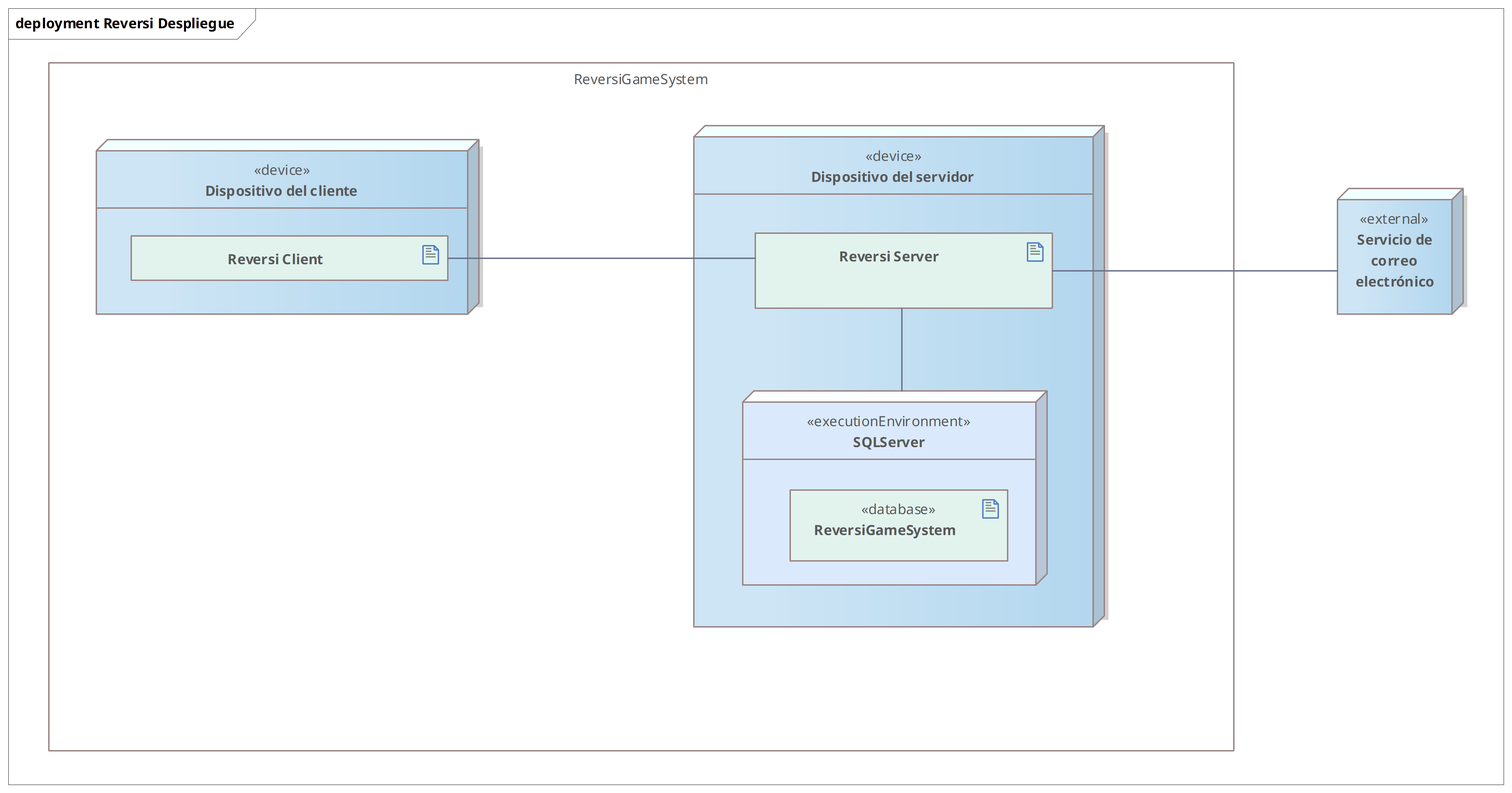
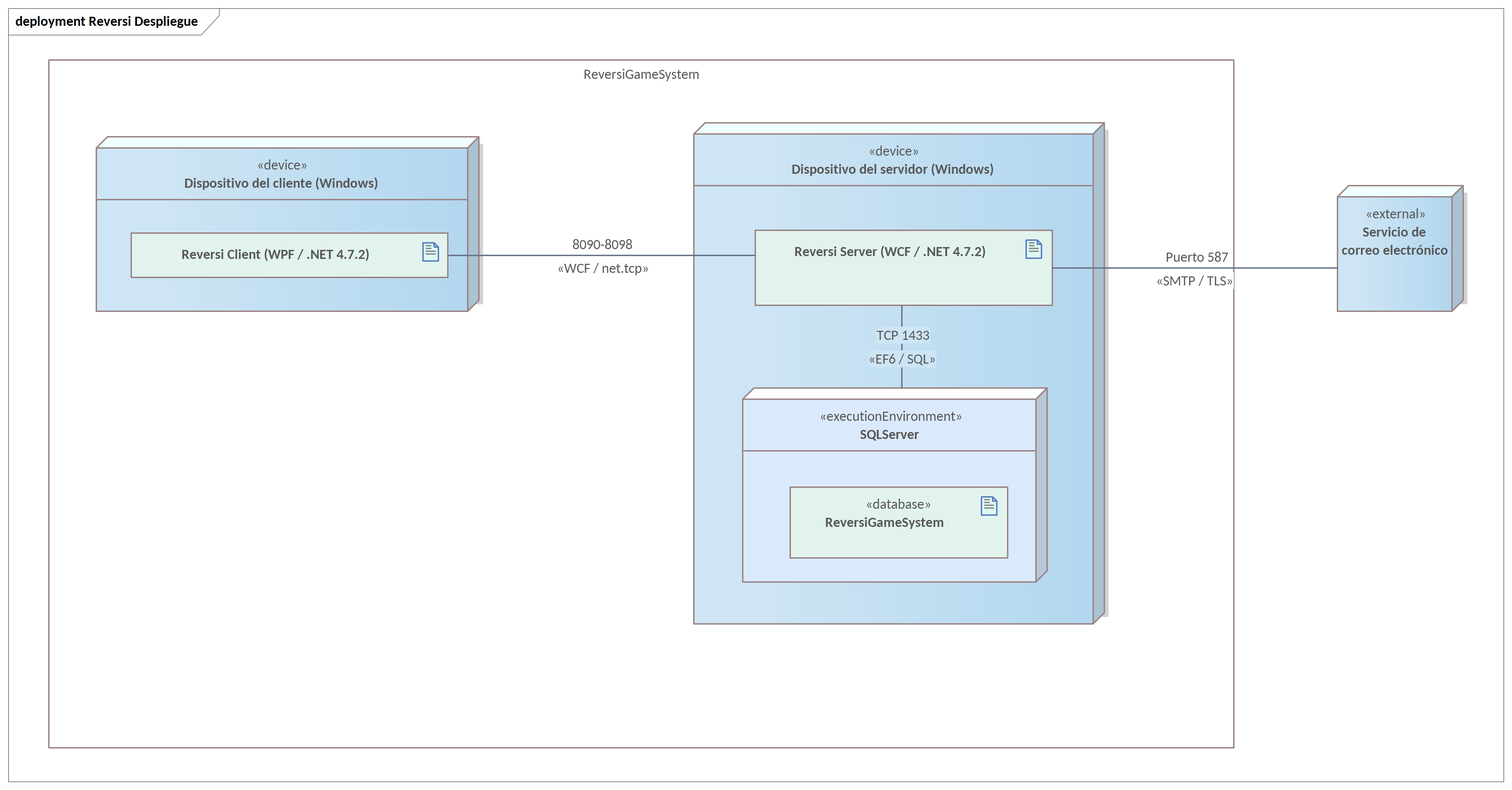
docs(architecture): complete SAD v0.3 third milestone and diagrams

diff --git a/docs/Design Project/Documento-Entrega.md b/docs/Design Project/Documento-Entrega.md
@@ -9,9 +9,9 @@ Diseño de Software
 | Proyecto             | Reversi                         |
 | -------------------- | ------------------------------- |
 | Equipo e integrantes | César Daniel Ortega Castillejos<br>Pedro Enrique Sánchez Rodríguez |
-| Versión del documento | v0.2 |
-| Entrega | Segundo avance |
-| Fecha | 15/11/2026 |
+| Versión del documento | v0.3 |
+| Entrega | Tercer corte |
+| Fecha | 22/11/2026 |
 
 # Documento de Arquitectura de Software (SAD)
 
@@ -27,10 +27,11 @@ Diseño de Software
 | Audiencia | Autoridad docente para evaluar la solidez y trazabilidad del diseño; equipo de desarrollo para guiar la construcción e integración de módulos; y testers (QA) para derivar las pruebas de verificación de los escenarios de calidad. |
 | Alcance | Cubre el diseño integral del cliente de escritorio (WPF), el servidor autoritativo de partidas y sesiones (WCF) y la persistencia relacional (SQL Server). Quedan fuera del alcance el servicio de transporte de correo electrónico (dependencia externa), clientes web/móviles y el modo de juego local fuera de línea. |
 
-| **Versión** | **Fecha** | **Cambios principales** |
-| --- | --- | --- |
-| v0.1 | 10/10/2026 | Primera entrega parcial: definición de frontera, interesados, drivers de calidad, árbol de utilidad, ASR prioritarios, decisiones ADR (001 a 006), catálogo de módulos C-01 a C-14, vistas V-01/V-02 y riesgos iniciales. |
-| v0.2 | 15/11/2026 | Segundo avance. Se conciliaron los escenarios de calidad y los ASR. Se actualizaron los ADR y el catálogo de elementos a partir de las iteraciones ADD. Se documentaron las reglas de dependencia y se justificó la selección de vistas 4+1. |
+| **Versión** | **Fecha**  | **Cambios principales**                                                                                                                                                                                                                      |
+| ----------- | ---------- | -------------------------------------------------------------------------------------------------------------------------------------------------------------------------------------------------------------------------------------------- |
+| v0.1        | 10/10/2026 | Primera entrega parcial: definición de frontera, interesados, drivers de calidad, árbol de utilidad, ASR prioritarios, decisiones ADR (001 a 006), catálogo de módulos C-01 a C-14, vistas V-01/V-02 y riesgos iniciales.                    |
+| v0.2        | 15/11/2026 | Segundo avance. Se conciliaron los escenarios de calidad y los ASR. Se actualizaron los ADR y el catálogo de elementos a partir de las iteraciones ADD. Se documentaron las reglas de dependencia y se justificó la selección de vistas 4+1. |
+| v0.3        | 22/11/2026 | Tercer corte. Se incorpora IT11 de preferencias de idioma, se documentan los contratos de los nueve drivers y la arquitectura en ejecución y se incorporan las fichas lógica y de procesos.                                                  |
 
 ### 1.2 Resumen de la arquitectura
 
@@ -56,13 +57,13 @@ La solución usa un servidor autoritativo y separa los niveles lógicos de clien
 
 ### 1.4 Uso de IA generativa
 
-| Qué pidieron                                                                                                                                                                                                                                         | Qué aceptaron y qué rechazaron                                                                                                                                                                                                                                                                                                                                                                 | Cómo lo verificaron                                                                                                                                                           |
-| ---------------------------------------------------------------------------------------------------------------------------------------------------------------------------------------------------------------------------------------------------- | ---------------------------------------------------------------------------------------------------------------------------------------------------------------------------------------------------------------------------------------------------------------------------------------------------------------------------------------------------------------------------------------------- | ----------------------------------------------------------------------------------------------------------------------------------------------------------------------------- |
-| **Mejora de redacción apegada al dominio:** Redacción y pulido técnico de descripciones arquitectónicas, fichas de decisión (ADR), justificaciones de ASR y escenarios de calidad con terminología formal del dominio de Reversi y tácticas del SEI. | **Aceptado:** La terminología formal, la redacción neutral de caja negra en las respuestas de escenarios (eliminando fugas prematuras de solución) y los trade-offs de diseño.<br><br>**Rechazado:** Propuestas que sugerían tecnologías o mecanismos fuera del alcance y stack estipulado (tales como colas RabbitMQ o persistencia síncrona en cada turno).                                  | Cotejo manual contra el glosario del proyecto (1.3), las restricciones técnicas formales (RES-TEC) y los términos de calidad del SEI / ISO 25010.                             |
-| **Verificación de llenado correcto según reglas de la plantilla:** Auditoría de la estructura de las secciones de la primera entrega frente a las instrucciones de la plantilla SAD v5.0 y la lista de comprobación proporcionada.                   | **Aceptado:** El ajuste en la cantidad de elementos (10 escenarios y 7 ASR), la inclusión de las filas obligatorias de seguridad (activo, actor, límite) y el formato tabular de las fichas.<br><br>**Rechazado:** Formatos de redacción libre o listas desestructuradas que no respetaban las tablas canónicas de la plantilla.                                               | Comparación punto por punto contra la lista de comprobación proporcionada de la plantilla y la rúbrica de evaluación docente.                                                 |
-| **Verificación de identificadores permitidos en el documento:** Validación estricta del cumplimiento de la regla de los siete identificadores canónicos y trazabilidad entre secciones.                                                              | **Aceptado:** La corrección y eliminación de sub-abreviaciones inventadas (reemplazando `QAS-SEG` por la nomenclatura canónica `QAS-Seguridad`), y la unificación de los catálogos de componentes (`C-01` a `C-14`) y riesgos (`R-01` a `R-03`).<br><br>**Rechazado:** Cualquier prefijo intermedio que violara la regla de identificadores de la plantilla.                                   | Rastreo y búsqueda en el texto para comprobar que solo existan los prefijos permitidos (QAS, ASR, ADR, C, V, EV, R) y que las referencias cruzadas entre secciones coincidan. |
-| **Análisis y síntesis de avances de iteraciones:** Extracción y discriminación de la información técnica generada en las notas de las Iteraciones 1 a 5 de ADD para trasladar las decisiones esenciales a la entrega formal.                         | **Aceptado:** Sugerencias para la selección de decisiones arquitectónicas estructurales y la representación de la evolución histórica (marcando ADR-001 y ADR-002 como sustituidos por ADR-004 y ADR-005 tras la Iteración 5).<br><br>**Rechazado:** Trasladar decisiones de nivel de código, dependencias de bajo nivel o características descartadas (como el modo de juego fuera de línea). | Contraste contra las bitácoras de diseño de las Iteraciones 1 a 5 y los acuerdos de alcance establecidos con la autoridad organizacional.                                     |
-| Consolidación del segundo avance con las iteraciones ADD y revisión contra el Word original. | Se conservaron las decisiones de diseño sustentadas por las iteraciones, el catálogo de módulos y las reglas de dependencia. Las estimaciones de red se registraron como análisis. | Se contrastaron las secciones y las tablas con la plantilla. Se cotejaron los ADR, los elementos y las vistas con los documentos de diseño. |
+| Qué pidieron                                                                                                                                                                                                                                                                            | Qué aceptaron y qué rechazaron                                                                                                                                                                                                                                                                                                                                                                 | Cómo lo verificaron                                                                                                                                                           |
+| --------------------------------------------------------------------------------------------------------------------------------------------------------------------------------------------------------------------------------------------------------------------------------------- | ---------------------------------------------------------------------------------------------------------------------------------------------------------------------------------------------------------------------------------------------------------------------------------------------------------------------------------------------------------------------------------------------- | ----------------------------------------------------------------------------------------------------------------------------------------------------------------------------- |
+| **Mejora de redacción apegada al dominio:** Redacción y pulido técnico de descripciones arquitectónicas, fichas de decisión (ADR), justificaciones de ASR y escenarios de calidad con terminología formal del dominio de Reversi y tácticas del SEI.                                    | **Aceptado:** La terminología formal, la redacción neutral de caja negra en las respuestas de escenarios (eliminando fugas prematuras de solución) y los trade-offs de diseño.<br><br>**Rechazado:** Propuestas que sugerían tecnologías o mecanismos fuera del alcance y stack estipulado (tales como colas RabbitMQ o persistencia síncrona en cada turno).                                  | Cotejo manual contra el glosario del proyecto (1.3), las restricciones técnicas formales (RES-TEC) y los términos de calidad del SEI / ISO 25010.                             |
+| **Verificación de llenado correcto según reglas de la plantilla:** Auditoría de la estructura de las secciones de la primera entrega frente a las instrucciones de la plantilla SAD v5.0 y la lista de comprobación proporcionada.                                                      | **Aceptado:** El ajuste en la cantidad de elementos (10 escenarios y 7 ASR), la inclusión de las filas obligatorias de seguridad (activo, actor, límite) y el formato tabular de las fichas.<br><br>**Rechazado:** Formatos de redacción libre o listas desestructuradas que no respetaban las tablas canónicas de la plantilla.                                                               | Comparación punto por punto contra la lista de comprobación proporcionada de la plantilla y la rúbrica de evaluación docente.                                                 |
+| **Verificación de identificadores permitidos en el documento:** Validación estricta del cumplimiento de la regla de los siete identificadores canónicos y trazabilidad entre secciones.                                                                                                 | **Aceptado:** La corrección y eliminación de sub-abreviaciones inventadas (reemplazando `QAS-SEG` por la nomenclatura canónica `QAS-Seguridad`), y la unificación de los catálogos de componentes (`C-01` a `C-14`) y riesgos (`R-01` a `R-03`).<br><br>**Rechazado:** Cualquier prefijo intermedio que violara la regla de identificadores de la plantilla.                                   | Rastreo y búsqueda en el texto para comprobar que solo existan los prefijos permitidos (QAS, ASR, ADR, C, V, EV, R) y que las referencias cruzadas entre secciones coincidan. |
+| **Análisis y síntesis de avances de iteraciones:** Extracción y discriminación de la información técnica generada en las notas de las Iteraciones 1 a 5 de ADD para trasladar las decisiones esenciales a la entrega formal.                                                            | **Aceptado:** Sugerencias para la selección de decisiones arquitectónicas estructurales y la representación de la evolución histórica (marcando ADR-001 y ADR-002 como sustituidos por ADR-004 y ADR-005 tras la Iteración 5).<br><br>**Rechazado:** Trasladar decisiones de nivel de código, dependencias de bajo nivel o características descartadas (como el modo de juego fuera de línea). | Contraste contra las bitácoras de diseño de las Iteraciones 1 a 5 y los acuerdos de alcance establecidos con la autoridad organizacional.                                     |
+| Consolidación del segundo avance con las iteraciones ADD y revisión contra el Word original.                                                                                                                                                                                            | Se conservaron las decisiones de diseño sustentadas por las iteraciones, el catálogo de módulos y las reglas de dependencia. Las estimaciones de red se registraron como análisis.                                                                                                                                                                                                             | Se contrastaron las secciones y las tablas con la plantilla. Se cotejaron los ADR, los elementos y las vistas con los documentos de diseño.                                   |
 
 ---
 
@@ -272,6 +273,8 @@ QAS-Desplegabilidad-1 se conserva como escenario planeado para la Iteración 4. 
 | **ADR-012** | Opción de jugar contra el sistema desde la sala de espera | Aceptado | Sin ASR prioritario. Atiende QAS-Usabilidad-2. |
 | **ADR-013** | Propagación del estado completo de la partida | Aceptado | ASR-03 |
 | **ADR-014** | Tiempo límite para el proveedor de correo | Aceptado | ASR-04 |
+| **ADR-015** | Almacenamiento de preferencias de idioma en el servidor | Aceptado | ASR-05 (CU-09) |
+| **ADR-015** | Almacenamiento de preferencias de idioma en el servidor | Aceptado | ASR-05 y CU-09 |
 
 ### 3.2 Fichas de decisión
 
@@ -429,6 +432,17 @@ QAS-Desplegabilidad-1 se conserva como escenario planeado para la Iteración 4. 
 | **Riesgos** | Ninguno residual registrado (dependencia externa acotada a 5 s) |
 | **Elementos afectados** | C-08, C-11, DEP-01 |
 
+| ADR-015 | Almacenamiento de preferencias de idioma en el servidor |
+| --- | --- |
+| **Estado** | Aceptado |
+| **Contexto** | Para soportar `CU-09` (Modificar idioma de interfaz) conservando la preferencia de cada cuenta entre sesiones y dispositivos sin mezclarla con los datos públicos del jugador ni acoplar los recursos visuales con la comunicación y almacenamiento (`STK-02`, `ASR-05`) en IT11. |
+| **Alternativas** | **A (Preferencia de cuenta almacenada en el servidor con módulo dedicado):** Incorporar un flujo remoto propio (`C-42` a `C-45`) que guarda el idioma de la cuenta en el servidor antes de aplicarlo en pantalla, mientras los invitados aplican el idioma solo durante su sesión. *A favor:* Conserva el idioma de la cuenta entre sesiones y separa la configuración de uso respecto al perfil público. *En contra:* Guardar la preferencia de cuenta depende de disponibilidad remota y un fallo posterior de carga local de recursos puede dejar temporalmente distinto el idioma guardado del mostrado.<br><br>**B (Almacenar la preferencia únicamente en el equipo cliente):** Guardar el idioma en archivos locales sin contrato remoto. *A favor:* Cambia de idioma sin consultar al servidor. *En contra:* La preferencia queda ligada a un solo equipo y no sigue a la cuenta.<br><br>**C (Incluir la preferencia dentro del flujo de modificación de perfil):** Reutilizar el servicio de perfil existente para guardar el idioma. *A favor:* Evita agregar nuevas fronteras para preferencias. *En contra:* Mezcla la configuración de interfaz del usuario con los datos públicos de su perfil. |
+| **Criterios** | Persistencia asociada a la cuenta, separación de responsabilidades (`STK-02`) y uso de contratos remotos (`ASR-05`). |
+| **Decisión** | Se elige la Alternativa A: se incorporan `C-42` a `C-45` para consultar y guardar el idioma de la cuenta en el servidor antes de aplicarlo visualmente en `C-18`. |
+| **Consecuencias** | La preferencia de idioma persiste asociada a la cuenta con fronteras limpias en cliente, servicio, negocio y datos. Se acepta la dependencia remota al guardar y el desacople temporal si falla la carga local de recursos tras confirmar el guardado. |
+| **Riesgos** | Ninguno identificado |
+| **Elementos afectados** | C-01, C-18, C-42, C-43, C-44, C-45 |
+
 ---
 
 ## 4. Estructura
@@ -454,7 +468,7 @@ QAS-Desplegabilidad-1 se conserva como escenario planeado para la Iteración 4. 
 | C-15 | Raíz de composición del servidor (Servidor · Arranque) | Ensambla el servidor y conecta contratos con implementaciones. | C-04, módulos de negocio y C-11 a C-13. |
 | C-16 | Acceso y registro (submódulo de C-01) | Presenta el inicio de sesión, el acceso como invitado y la creación de cuentas. | Cliente de sesiones, Cliente de cuentas, políticas de entrada y apoyo de presentación. |
 | C-17 | Menú principal (submódulo de C-01) | Muestra la clasificación y la lista de amigos. Permite acceder a partidas y cerrar sesión. | Cliente de clasificación, Cliente de amistades, Cliente de sesiones y apoyo de presentación. |
-| C-18 | Perfil y configuración (submódulo de C-01) | Presenta el perfil y las opciones de interfaz. Desde el perfil también se pueden enviar solicitudes de amistad. | Cliente de perfil, Cliente de cuentas y apoyo de presentación. |
+| C-18 | Perfil y configuración (submódulo de C-01) | Presenta el perfil y las opciones de interfaz. Desde el perfil también se pueden enviar solicitudes de amistad. | Cliente de perfil, Cliente de cuentas, Cliente de preferencias y apoyo de presentación. |
 | C-19 | Amistades (submódulo de C-01) | Presenta la búsqueda de jugadores y las solicitudes de amistad. | Cliente de amistades y apoyo de presentación. |
 | C-20 | Sala de partida (submódulo de C-01) | Presenta la creación, la búsqueda y la espera de partidas. | Cliente de partidas, comprobaciones de juego y apoyo de presentación. |
 | C-21 | Partida en curso (submódulo de C-01) | Muestra el tablero, recibe las acciones de juego y presenta el chat de la partida. | Cliente de partidas, comprobaciones de juego y apoyo de presentación. |
@@ -478,18 +492,26 @@ QAS-Desplegabilidad-1 se conserva como escenario planeado para la Iteración 4. 
 | C-39 | Módulo de datos de chat (submódulo de C-12) | Implementa el contrato de persistencia de chat y traduce hacia la base de datos relacional. | Contrato de persistencia de chat (implementa), Base de datos relacional |
 | C-40 | Módulo de datos de amistades (submódulo de C-12) | Implementa el contrato de persistencia de amistades y traduce hacia la base de datos relacional. | Contrato de persistencia de amistades (implementa), Base de datos relacional |
 | C-41 | Módulo de datos de jugadores (submódulo de C-12) | Implementa el contrato de persistencia de jugadores y traduce hacia la base de datos relacional. | Contrato de persistencia de jugadores (implementa), Base de datos relacional |
+| C-42 | Cliente de preferencias (submódulo de C-03) | Consulta y actualiza el idioma de la cuenta. | Contrato remoto de preferencias de jugador. |
+| C-43 | Servicio de preferencias de jugador (submódulo de C-04) | Expone la consulta y actualización de preferencias. | C-44 y C-13. |
+| C-44 | Módulo de preferencias (Negocio del servidor) | Comprueba la sesión y el idioma y coordina su almacenamiento. | C-08 (sesiones) y Contrato de persistencia de preferencias. |
+| C-45 | Módulo de datos de preferencias (submódulo de C-12) | Guarda y consulta preferencias de la cuenta. | Contrato de persistencia de preferencias y C-14. |
 
 Los submódulos heredan la capa del módulo que los agrupa. Los contratos de salida se definen en negocio y los contratos remotos se exponen en servicios. La ficha V-02 indica cómo leer los nombres de la figura junto con los identificadores del catálogo.
 
 ### 4.2 Interfaces críticas
 
-*Entrega final*
-
-Sólo las interfaces cuyo incumplimiento produce un riesgo real: dinero, estado compartido, datos personales…
-
 | Interfaz | Provista por / usada por | Operaciones | Contrato: condiciones de entrada, resultado garantizado y errores relevantes |
 | --- | --- | --- | --- |
-| [Nombre] | [C-_ / C-_] | […] | […] |
+| Cuentas (CU-01) | C-30 / C-25 | Solicitar código y completar registro. | Requiere nombre y correo disponibles, contraseña válida y código vigente del registro. El éxito crea una cuenta activa con correo verificado e invalida el código. Datos incompletos, formato inválido, duplicados y código incorrecto o vencido rechazan el registro. Fallos de correo o almacenamiento se informan sin dejar una cuenta utilizable parcialmente creada. Cancelar antes de completar conserva el registro sin finalizar. |
+| Preferencias de idioma (CU-09) | C-43 / C-42 | Consultar preferencias y guardar idioma. | Requiere sesión válida de cuenta e idioma soportado. El éxito confirma el guardado antes de aplicar los recursos visuales. Cancelar o elegir el idioma activo conserva la configuración. Un fallo de guardado conserva el idioma mostrado. Si el guardado ya se confirmó y falla la carga local, se conserva el idioma visual anterior y se informa el fallo de recursos. |
+| Sala (CU-11, CU-15) | C-35 / C-29 | Crear, unirse, iniciar contra el sistema y cancelar sala. | Requiere sesión válida y configuración admitida. Crear produce una sala con creador y código. Unirse por selección o por ingreso de código converge en comprobar en el servidor que sigue esperando y tiene cupo. Código inválido, sala ocupada o iniciada e intento de unirse a la propia sala rechazan la solicitud. El éxito asigna el segundo participante e inicia la partida. Cancelar la espera invalida el acceso por código. Fallos de almacenamiento evitan una modificación parcial. |
+| Partida en curso (CU-16) | C-36 / C-29 | Realizar jugada y consultar estado confirmado. | Requiere sesión válida, participación, turno, partida activa, posición legal y versión esperada vigente. El éxito establece un nuevo estado y versión en el servidor y devuelve el estado confirmado. Una solicitud inválida conserva el estado. Pasar turno y finalizar se resuelven según los movimientos disponibles. El servidor resuelve cada vencimiento una vez y declara derrota al tercer turno consecutivo agotado. Si se pierde la respuesta, el resultado queda desconocido para el cliente hasta consultar el estado. La confirmación precede al guardado relacional y acepta el riesgo R-01. |
+| Solicitudes de amistad (CU-21, CU-23) | C-34 / C-28 | Enviar y responder solicitud. | Requiere sesión válida y cuentas disponibles. Enviar crea una solicitud pendiente única. Autoenvío, amistad existente o solicitud duplicada se rechazan. Solo el destinatario puede aceptar o rechazar una solicitud pendiente. Aceptar establece la amistad y resuelve la solicitud como una misma operación. Una solicitud ya resuelta o un fallo de actualización conserva el estado válido anterior. Cancelar conserva la solicitud. |
+| Chat (CU-26) | C-37 / C-29 | Enviar mensaje. | Requiere sesión de cuenta, participación autorizada, contenido válido y ausencia de muteo vigente. El éxito guarda y distribuye el mensaje. Contenido vacío, falta de autorización o muteo rechazan el envío. El contenido prohibido se bloquea y puede registrar infracción y muteo conforme a la política. Un error al guardar el mensaje impide presentarlo como enviado. Un fallo al guardar la infracción mantiene el bloqueo. Un muteo solo se informa como aplicado tras confirmar su registro. |
+| Sesión de invitado (CU-28) | C-31 / C-24 | Abrir sesión temporal. | Requiere nombre proporcionado, válido y disponible. El éxito crea una sesión temporal e informa sus restricciones de acceso a chat, amistades y estadísticas persistentes. Nombre inválido u ocupado se rechaza. Cancelación o fallo de creación conserva la ausencia de sesión. |
+
+En las operaciones remotas, una sesión vencida o inválida impide la modificación solicitada. Si la conexión falla antes de recibir respuesta de una operación que modifica estado, el cliente consulta el resultado vigente antes de repetirla. El cliente desconoce la organización interna del almacenamiento. Para una jugada, la confirmación significa aceptación del nuevo estado por el servidor. Su guardado relacional posterior se reintenta si falla. Una caída previa al guardado puede perder progreso confirmado, como recoge R-01.
 
 ### 4.3 Reglas de dependencia
 
@@ -511,20 +533,16 @@ Sólo las interfaces cuyo incumplimiento produce un riesgo real: dinero, estado 
 
 ## 5. Arquitectura en ejecución
 
-*Entrega final*
-
-Cada preocupación tiene una decisión, o un «no aplica» con su razón. No es una lista de tecnologías: toda tecnología mencionada se conecta con un ADR o un ASR.
-
 | Preocupación | Decisión, o «no aplica porque…» | ADR / ASR | Vista o evidencia |
 | --- | --- | --- | --- |
-| Distribución y comunicación | […] | […] | [V-_ / EV-_] |
-| Datos, estado y propiedad | […] | […] | [V-_ / EV-_] |
-| Concurrencia y coordinación | […] | […] | [V-_ / EV-_] |
-| Resiliencia y disponibilidad | […] | […] | [V-_ / EV-_] |
-| Seguridad y límites de confianza | […] | […] | [V-_ / EV-_] |
-| Despliegue y entornos | […] | […] | [V-_ / EV-_] |
-| Observabilidad y operación | […] | […] | [V-_ / EV-_] |
-| Costo operacional | […] | […] | [V-_ / EV-_] |
+| Distribución y comunicación | El cliente consume contratos WCF. La partida devuelve y notifica el estado completo y versionado. | ADR-003, ADR-010, ADR-013 / ASR-05 | V-02, V-03, V-05 |
+| Datos, estado y propiedad | El servidor conserva el estado oficial. Una jugada se confirma cuando el nuevo estado queda aceptado en el servidor. La sincronización relacional posterior puede quedar pendiente de reintento. | ADR-005, ADR-006 / ASR-01, ASR-02 | V-04, V-05 |
+| Concurrencia y coordinación | La comparación de versión y aplicación de jugada ocurren bajo el mismo acceso exclusivo por partida. | ADR-011 / ASR-01 | V-05 |
+| Resiliencia y disponibilidad | El estado y la asociación temporal permiten recuperar la partida dentro de 30 segundos. El correo tiene un límite de 5 segundos. | ADR-006, ADR-014 / ASR-02, ASR-04 | V-02, V-03 |
+| Seguridad y límites de confianza | El servidor valida sesión, participación, turno, posición y versión. Cada operación protege el estado de la cuenta o partida sobre el que actúa. | ADR-005, ADR-011 / ASR-01 | V-05 y contratos de 4.2 |
+| Despliegue y entornos | Cliente en el equipo del jugador. Servicio y motor relacional como procesos independientes del equipo servidor. El empaquetado de IT4 queda planeado. | ADR-004 / ASR-05 | V-03 |
+| Observabilidad y operación | Los servicios usan el registro de eventos para los fallos del servidor. Los errores de negocio se comunican por el contrato de su operación. | ADR-008 | V-02 y contratos de 4.2 |
+| Costo operacional | El equipo mantiene dos dispositivos de despliegue y acepta recursos compartidos entre servicio y motor relacional. El análisis de red de IT10 sustenta el envío completo bajo sus supuestos. | ADR-004, ADR-013 | V-03, V-05 |
 
 ---
 
@@ -550,8 +568,10 @@ Para documentar la arquitectura de Reversi usaremos las vistas lógica, de desar
 | Vista | Nombre | Tipo de vista | Qué muestra | Decisión que refleja |
 | --- | --- | --- | --- | --- |
 | **V-01** | Vista de contexto del sistema | Contexto | Delimitación de la frontera del sistema Reversi, actores humanos y servicios externos con los que interactúa. | ADR-003, ADR-006 |
-| **V-02** | Vista de estructura de módulos | Estructura | Organización de los módulos del cliente y del servidor y sus contratos. | ADR-004, ADR-007, ADR-008, ADR-009, ADR-010 |
+| **V-02** | Vista de estructura de módulos | Estructura | Organización de los módulos del cliente y del servidor y sus contratos. | ADR-004, ADR-007, ADR-008, ADR-009, ADR-010, ADR-015 |
 | **V-03** | Vista de despliegue | Despliegue | Ubicación de la aplicación cliente, el servidor Reversi y el motor de base de datos en dos dispositivos. | ADR-004 |
+| **V-04** | Vista lógica de la partida | Estructura | Partida, participantes, movimientos y estado confirmado. | ADR-005, ADR-006, ADR-011 |
+| **V-05** | Vista de procesos de una jugada | Ejecución | Validación de versión y propagación del estado confirmado. | ADR-011, ADR-013 |
 
 ---
 
@@ -563,7 +583,7 @@ Para documentar la arquitectura de Reversi usaremos las vistas lógica, de desar
 | **Notación y leyenda**             | Diagrama de contexto tipo C4 (Nivel 1). Bloque central delimitando la frontera del Sistema Reversi; cajas externas para actores humanos y servicios externos (DEP-01); flechas dirigidas rotuladas indicando el sentido de los mensajes.                                                                                              |
 | **Se corresponde con** | Los módulos de V-02 pertenecen al sistema delimitado en V-01. |
 
-![[Context-dark.png]]
+![Contexto del sistema](Documento-Entrega/Context-dark.png)
 
 ---
 
@@ -577,7 +597,7 @@ Para documentar la arquitectura de Reversi usaremos las vistas lógica, de desar
 
 ![Reversi Módulos](Documento-Entrega/Reversi%20Módulos.png)
 
-Correspondencia de V-02 con 4.1. Los flujos de presentación de la figura son C-16 a C-23, los clientes remotos son C-24 a C-29 y los servicios son C-30 a C-37. «Módulo de juego» en la capa de negocio del cliente corresponde a C-02, Módulo validador de interfaz. En el servidor, «Módulo de juego» corresponde a C-05. Los módulos de datos por área corresponden a C-38 a C-41.
+Correspondencia de V-02 con 4.1. Los flujos de presentación de la figura son C-16 a C-23; los clientes remotos son C-24 a C-29 y C-42 (preferencias); los servicios son C-30 a C-37 y C-43 (preferencias de jugador). «Módulo de juego» en la capa de negocio del cliente corresponde a C-02, Módulo validador de interfaz. En el servidor, «Módulo de juego» corresponde a C-05 y el área de preferencias corresponde a C-44. Los módulos de datos por área corresponden a C-38 a C-41 y C-45 (preferencias).
 
 ---
 
@@ -590,6 +610,70 @@ Correspondencia de V-02 con 4.1. Los flujos de presentación de la figura son C-
 | **Se corresponde con** | En V-02, C-01 a C-03 se ejecutan en la aplicación cliente. Los módulos del servidor se ejecutan en la aplicación de servicio, incluido C-12. La base relacional C-14 se aloja en el motor de base de datos del mismo dispositivo servidor. |
 
 ![[docs/Design Project/Documento-Entrega/Reversi despliegue.png]]
+
+---
+
+| V-04 Vista lógica de la partida | |
+| --- | --- |
+| Tipo de vista | Estructura |
+| Para quién y para qué | Equipo y evaluadores. Permite comprender las relaciones del dominio que usa el recorrido de una jugada. |
+| Preocupaciones que atiende | Identidad de los participantes, pertenencia del movimiento a la partida y propiedad del estado confirmado. |
+| Notación y leyenda | UML de clases. Las asociaciones muestran las relaciones y multiplicidades. |
+| Se corresponde con | En V-02, el Módulo de juego C-05 coordina la partida y sus movimientos y C-07 conserva el estado activo. V-05 muestra cómo se actualiza ese estado. |
+
+![[docs/Design Project/Documento-Entrega/V-04_Vista_logica_partida.png]]
+
+| V-05 Vista de procesos de una jugada | |
+| --- | --- |
+| Tipo de vista | Ejecución |
+| Para quién y para qué | Equipo y evaluadores. Permite seguir las condiciones que preceden a la actualización y la entrega del estado a los jugadores. |
+| Preocupaciones que atiende | Rechazo de versión obsoleta, acceso exclusivo por partida y entrega de versiones repetidas. |
+| Notación y leyenda | UML de secuencia. Las líneas de vida representan participantes en ejecución de los módulos de V-02. Los mensajes ordenan las interacciones y los fragmentos alternativos representan los resultados de la comprobación. |
+| Se corresponde con | Cliente de partidas C-29, Servicio de partida en curso C-36, Módulo de juego C-05, Módulo de estado de juego C-07 y Módulo motor de juego C-06 conservan sus responsabilidades de V-02. V-03 ubica los procesos y V-04 identifica el estado y el movimiento afectados. |
+
+![Validación de la versión](Octava%20iteración/Validación%20de%20la%20versión%20al%20realizar%20una%20jugada%20válida.png)
+
+![Propagación del estado confirmado](Décima%20iteración/Propagación%20del%20estado%20confirmado%20después%20de%20una%20jugada.png)
+
+#### Procesos adicionales de los contratos críticos (4.2)
+
+**CU-01 Crear cuenta**
+
+![[docs/Design Project/Documento-Entrega/CU-01_Solicitar_codigo.png]]
+
+![[docs/Design Project/Documento-Entrega/CU-01_Completar_registro.png]]
+
+**CU-09 Cambiar idioma**
+
+![[docs/Design Project/Documento-Entrega/CU-09_Cambiar_idioma_cuenta.png]]
+
+![[docs/Design Project/Documento-Entrega/CU-09_Cambiar_idioma_invitado.png]]
+
+**CU-11 y CU-15 Crear y unirse a partida**
+
+![[docs/Design Project/Documento-Entrega/CU-11_Crear_sala.png]]
+
+![[docs/Design Project/Documento-Entrega/CU-11_Acciones_sala_espera.png]]
+
+![[docs/Design Project/Documento-Entrega/CU-15_Unirse_partida.png]]
+
+**CU-21 y CU-23 Enviar y responder amistad**
+
+![[docs/Design Project/Documento-Entrega/CU-21_Enviar_amistad.png]]
+
+![[docs/Design Project/Documento-Entrega/CU-23_Responder_amistad.png]]
+
+**CU-26 Enviar mensaje**
+
+![[docs/Design Project/Documento-Entrega/CU-26_Enviar_mensaje_muteo.png]]
+
+![[docs/Design Project/Documento-Entrega/CU-26_Moderacion_chat.png]]
+
+**CU-28 Entrar como invitado**
+
+![[docs/Design Project/Documento-Entrega/CU-28_Entrar_invitado.png]]
+
+El escenario principal del +1 es CU-16. STK-01 elige una posición sobre un estado confirmado. En V-04, el movimiento pertenece a una partida y un participante. En V-02 intervienen el Cliente de partidas, el servicio y los módulos de juego. V-05 muestra la comprobación y la entrega del resultado. V-03 ubica esos participantes en el dispositivo cliente y el dispositivo servidor. Una versión obsoleta produce rechazo y consulta del estado vigente. La pérdida de respuesta deja el resultado desconocido para el cliente hasta esa consulta. La reincorporación dentro de 30 segundos complementa el recorrido conforme a ASR-02.
 
 ---
 
@@ -638,7 +722,7 @@ Registren aquí cada EV que citen. Una evidencia puede ser una revisión por esc
 
 | R        | Tipo      | Descripción                                                                                                                                                                                                                                                                                               | Qué se hará                                                                                                                                                                                                               |
 | -------- | --------- | --------------------------------------------------------------------------------------------------------------------------------------------------------------------------------------------------------------------------------------------------------------------------------------------------------- | ------------------------------------------------------------------------------------------------------------------------------------------------------------------------------------------------------------------------- |
-| **R-01** | Riesgo    | Mantener el estado activo de las partidas en la memoria RAM del servidor sin persistencia transaccional síncrona en disco (ADR-006). Ante una caída inesperada del proceso del host o fallo de energía, se pierde el progreso de las partidas en curso no concluidas.                                     | Registrar eventos clave en el log de auditoría local (C-13) y ejecutar pruebas de corte forzado de proceso durante la fase de integración para validar el comportamiento residual.                                        |
+| **R-01** | Riesgo | Una jugada confirmada por el servidor puede estar pendiente de guardado relacional. Se asume que el estado aceptado podrá guardarse posteriormente. Una caída del proceso antes de completar la sincronización puede perder ese progreso confirmado. | Mantener la sincronización pendiente y reintentar. Verificar el comportamiento ante fallo de guardado y caída del proceso durante la evaluación. |
 | **R-02** | Deuda     | Duplicación deliberada de la comprobación básica de casillas entre el cliente WPF y el servidor WCF (ADR-005). Existe riesgo de divergencia (rule drift): la interfaz podría habilitar casillas que el servidor luego rechace si no se mantienen sincronizados ambos módulos ante futuras modificaciones. | Definir una batería idéntica de pruebas unitarias automatizadas (**`QAS-FacilidadPrueba-1`**) para validar la misma matriz de jugadas sobre el validador del cliente y el motor del servidor antes del cierre de versión. |
 | **R-03** | Pendiente | El servicio y el motor relacional comparten recursos del dispositivo servidor (ADR-004). La carga simultánea puede afectar el tiempo de propagación (ADR-013).                                                                                                                                            | Medir el recorrido de extremo a extremo con 8 jugadores en 4 partidas y registrar el percentil 95 conforme a ASR-03.                                                                                                      |
 

diff --git a/docs/Design Project/Undécima iteración.md b/docs/Design Project/Undécima iteración.md
@@ -1,0 +1,49 @@
+# Undécima iteración
+
+Objetivo: Incorporar las preferencias de idioma al diseño del cliente y del servidor para soportar CU-09 Modificar idioma de interfaz.
+
+### Paso 2: Drivers para establecer el objetivo de la iteración
+
+- **CU-09 Modificar idioma de interfaz:** STK-01 (Jugador) confirma un idioma soportado y el sistema conserva su preferencia.
+- **STK-02 (Equipo de desarrollo):** Mantener separados los recursos visuales, la comunicación y el almacenamiento de preferencias.
+- **ASR-05:** Consultar y actualizar las preferencias de la cuenta mediante contratos remotos.
+
+### Paso 3: Elementos a refinar
+
+Se refina Perfil y configuración en presentación y se amplían los módulos de comunicación, servicios, negocio y persistencia definidos en IT6 e IT7. El alcance de esta iteración comprende el idioma de la interfaz.
+
+### Paso 4: Conceptos de diseño candidatos, alternativas y costos
+
+- **Preferencia de cuenta almacenada en el servidor.** Permite recuperar el idioma asociado a la cuenta. Requiere sesión válida y comunicación para guardar el cambio.
+- **Preferencia almacenada únicamente en el equipo cliente.** Permite cambiar sin consultar al servidor, pero la configuración queda ligada a ese equipo.
+- **Incluir la preferencia dentro del flujo de modificación del perfil.** Reduce la cantidad de fronteras, pero mezcla la configuración de uso con los datos públicos del jugador.
+
+### Paso 5: Decisión y elementos resultantes
+
+Se incorpora un Servicio de preferencias de jugador que delega en un Módulo de preferencias. Este define un Contrato de persistencia de preferencias, implementado por el Módulo de datos de preferencias. El Cliente de preferencias encapsula las solicitudes desde presentación.
+
+STK-01 selecciona y confirma un idioma. Para una cuenta, el cliente solicita guardar el idioma y espera la confirmación antes de aplicarlo a la interfaz. Si se rechaza la solicitud o falla su almacenamiento, conserva el idioma visual anterior. La cancelación y la selección del idioma ya activo conservan la configuración.
+
+Si el guardado se confirma y después falla la carga local de recursos, la interfaz conserva el idioma anterior e informa el fallo de carga. El guardado remoto ya pudo completarse. La confirmación del guardado y la aplicación visual constituyen resultados distintos.
+
+El invitado aplica el cambio durante su sesión. La preferencia persistente se asocia a una cuenta.
+
+**Costo aceptado.** Guardar un cambio de idioma de cuenta depende del servidor. Un fallo posterior de recursos puede dejar temporalmente el idioma guardado y el mostrado con valores distintos.
+
+### Paso 6: Bocetar vistas y registrar decisiones de diseño
+
+| Elemento | Capa | Responsabilidad | Dependencias |
+| --- | --- | --- | --- |
+| Perfil y configuración | Presentación del cliente | Coordina la confirmación y aplicación del idioma. | Cliente de preferencias y recursos de localización. |
+| Cliente de preferencias | Datos del cliente | Solicita consultar o guardar el idioma. | Contrato remoto de preferencias de jugador. |
+| Servicio de preferencias de jugador | Servicios del servidor | Expone la consulta y actualización de preferencias. | Módulo de preferencias. |
+| Módulo de preferencias | Negocio del servidor | Comprueba la sesión y el idioma y coordina el almacenamiento. | Sesiones y Contrato de persistencia de preferencias. |
+| Módulo de datos de preferencias | Persistencia del servidor | Consulta y guarda las preferencias de la cuenta. | Contrato de persistencia de preferencias y base de datos relacional. |
+
+### Paso 7: Análisis del diseño actual
+
+| Driver | No abordado | Parcialmente abordado | Completamente abordado | Decisiones de diseño tomadas y justificación |
+| --- | --- | --- | --- | --- |
+| CU-09 | | | X | Se define el guardado de la preferencia, su aplicación visual y los resultados de cancelación y fallo. |
+| STK-02 | | | X | Cada capa conserva una responsabilidad identificada en el recorrido. |
+| ASR-05 | | | X | El cliente consulta y actualiza preferencias mediante un contrato remoto. |

diff --git a/docs/Academic Observations/Observaciones.md b/docs/Academic Observations/Observaciones.md
@@ -196,3 +196,43 @@ Definir:
 	- Mejora (decisión propia)
 
 - Revisar **Rendimiento**, **Facilidad de prueba** y **Facilidad de modificación** del proyecto
+
+# Revisión del proyecto 7
+
+**Servidor**
+`GameplayServiceAPI`
+- Revisar quien trabaja con las excepciones que se lanzan en el código
+	- Las excepciones como `InvalidOperationValue`
+- Revisar la linea 23 y 24 por código duplicado
+- Revisar lo del los TimeSpan
+	- Revisar la justificación de porque se hace asi y porque no se modifica la configuración de WCF
+
+**Cliente**
+- Revisar el recursos que se nos esta consumiendo el timer
+- Debemos justificar de porque es la mejor opción
+
+El plan de migración del Cliente
+
+**Sonarqube y reporte**
+- Cumplir las métricas
+
+**Pruebas y excepciones**
+- Revisar los casos que se estan probando
+- Revisar los casos que provocan o lanzan una excepción, deben probarse
+- En las excepciones que suceden:
+	- revisar quien debe saber que ocurrio una excepción
+	- si se le propagan excepciones al usuario
+		- Revisar el feedback
+		- Revisar que la excepción que se le lanza, sea realmente algo que debe conocer el usuario
+			- Revisar que no sea de diseño, programación
+- Revisar los logs
+	- Revisar el tipo de hora que se registra en los logs
+
+**Resumen:**
+- Terminar el resto de funcionalidades
+- Justificar y revisar las decisiones de implementación a partir de atributos de calidad y estándares
+	- El manejo de excepciones
+	- La configuración de la comunicación
+	- Como se realiza la persistencia
+- Revisar y probar distintos casos de prueba, incluyendo excepciones
+

diff --git a/docs/Design Project/Proyecto Info General.md b/docs/Design Project/Proyecto Info General.md
@@ -749,6 +749,8 @@ El Módulo de persistencia conserva las responsabilidades de almacenamiento. El 
 
 #### Evolución estructural de las iteraciones
 
+La undécima iteración incorpora las preferencias de idioma. El Cliente de preferencias consume el Servicio de preferencias de jugador, que delega en el Módulo de preferencias y su Contrato de persistencia de preferencias. Para una cuenta, el guardado precede a la aplicación visual. Un fallo posterior de recursos puede dejar temporalmente distinto el idioma mostrado y el guardado. Para esta entrega, el alcance es el idioma.
+
 - La primera iteración define las capas de presentación, negocio, datos y servicios. Todavía no descompone esas capas en módulos.
 - La segunda iteración incorpora los módulos de presentación, comunicación, servicios, juego, motor de juego, jugadores, amistades, chat, despacho de correo y persistencia.
 - La tercera iteración refina el Módulo de juego e incorpora el Módulo de estado de juego para conservar el estado activo de las partidas en memoria. También delimita el despacho de correo como una responsabilidad separada de la persistencia.
